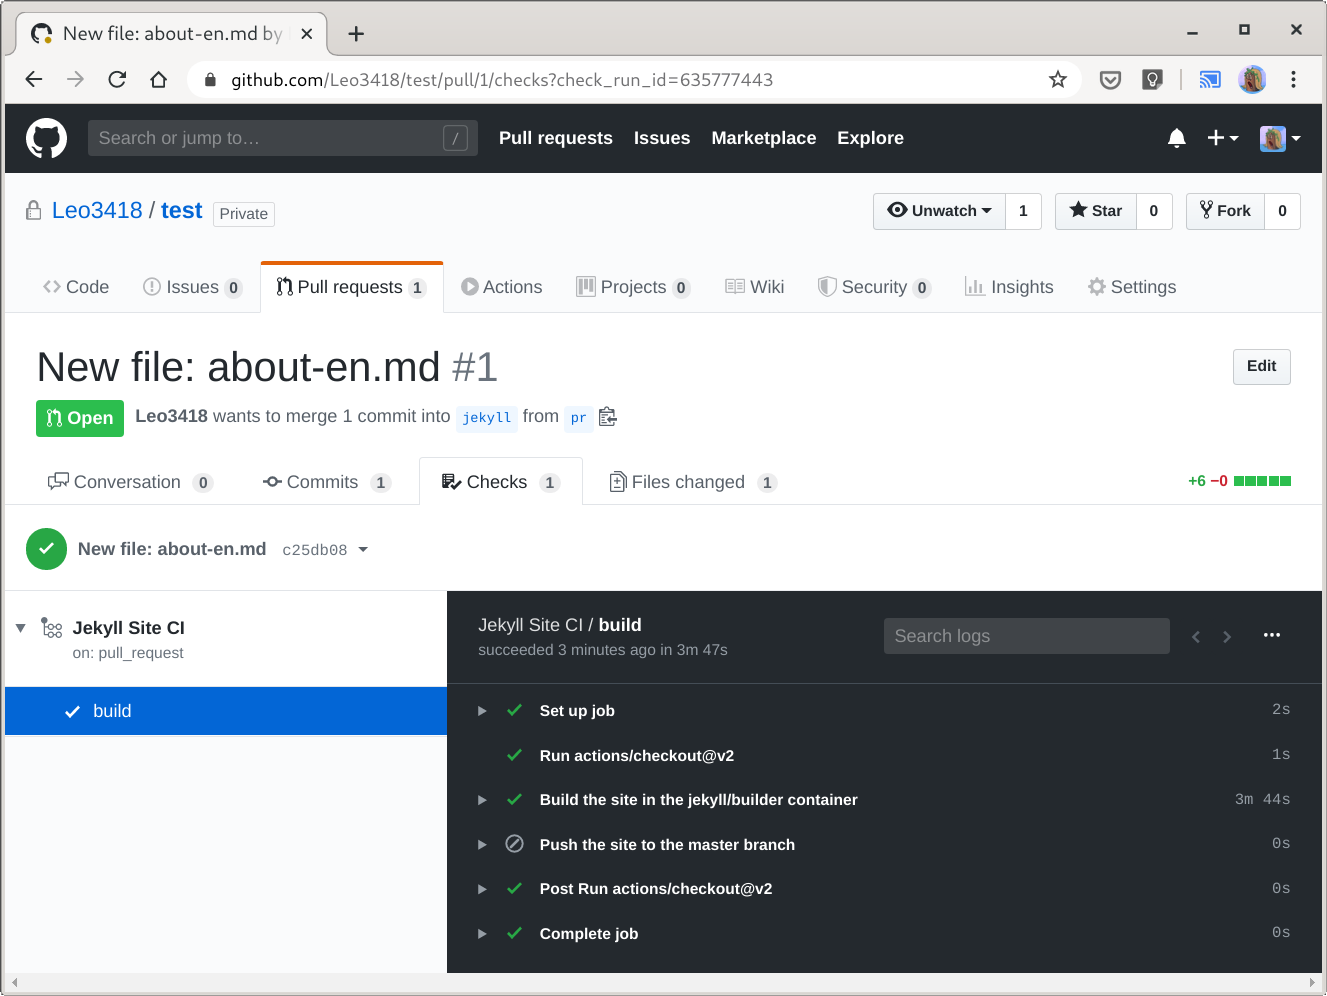
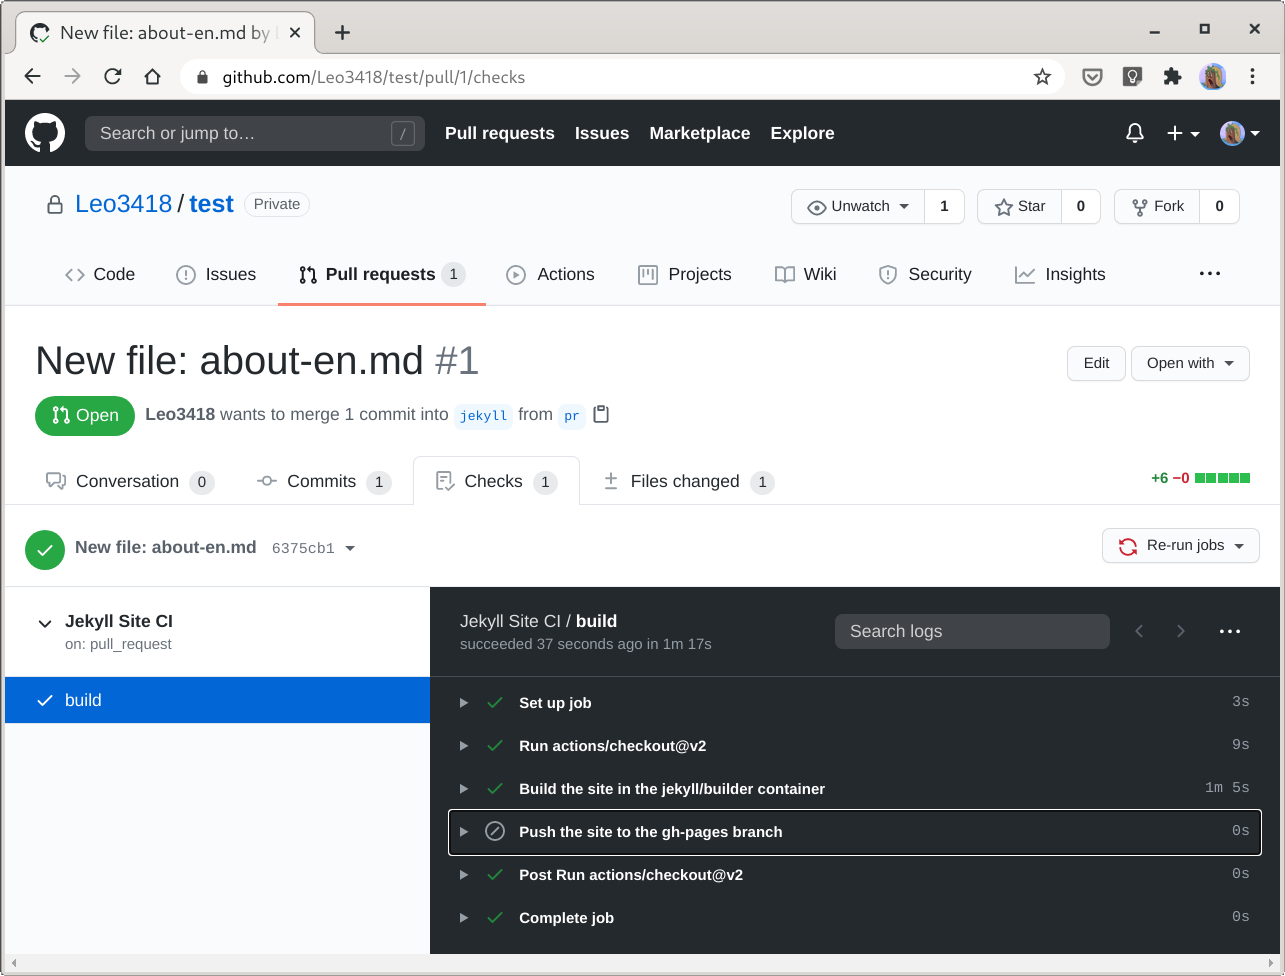
host-on-github-pages.md: Update for new GitHub Pages source option

diff --git a/collections/_multilingual-jekyll-site/en/host-on-github-pages.md b/collections/_multilingual-jekyll-site/en/host-on-github-pages.md
@@ -53,20 +53,19 @@ environments, and procedures.
 ### Create a Workflow
 
 A good starting point of the workflow for building a Jekyll site is
-[here](https://github.com/actions/starter-workflows/blob/master/ci/jekyll.yml).
+[here](https://github.com/actions/starter-workflows/blob/abf7f258d1d84c79ad067c704e069c8cf7d8d2d0/ci/jekyll.yml).
 You may copy the file's contents into your own workflow file and start
 customizing it.
 
 {% raw %}
-```yaml
-site-root$ cat .github/workflows/jekyll.yml
+```yml
 name: Jekyll site CI
 
 on:
   push:
-    branches: [ master ]
+    branches: [ $default-branch ]
   pull_request:
-    branches: [ master ]
+    branches: [ $default-branch ]
 
 jobs:
   build:
@@ -114,7 +113,40 @@ because jobs are isolated, so what is built by the `build` job cannot be
 accessed from other jobs. The step can simply run a set of commands that push
 the static files to GitHub.
 
+### Enter the Default Branch's Name
+
+In the configuration file, `$default-branch` should be replaced by the actual
+name of your Git repository's default branch.
+
+You can use whatever name you prefer for the default branch. For demonstration
+purpose, I would pick `jekyll` here.
+
+```diff
+  on:
+    push:
+-     branches: [ $default-branch ]
++     branches: [ jekyll ]
+    pull_request:
+-     branches: [ $default-branch ]
++     branches: [ jekyll ]
+```
+
 ### Add Step for Site Uploading
+
+If you were not using unsupported Jekyll plugins so that you could push your
+site's static files to GitHub directly and let GitHub Pages build the site, you
+would never see the generated static files of your site. To achieve the same
+effect with the GitHub Actions workflow, we will avoid uploading the static
+files to the default branch of the Git repository for the site, so those files
+will never pop into the working tree that is full of source files.
+
+The most straightforward way of doing this is to dedicate a `gh-pages` branch
+for the static files, and let GitHub Pages use that branch as the publishing
+source. Your site's source files will stay in the default branch, so when
+anyone clones the repository, the Git working tree will consist exclusively of
+the source files, and they can start working on them immediately. As long as
+the `gh-pages` branch is not checked out, the generated static files are
+hidden.
 
 If you are familiar with Docker and its command line interface, you will notice
 that the `docker` command in the workflow above mounts the `_site` directory
@@ -123,16 +155,16 @@ under `github.workspace` (which is simply your Git repository's root) to the
 which means the site's static files will be accessible from {% raw %}`${{
 github.workspace }}/_site`{% endraw %} after the build. So, the following
 commands should push what's under `_site` after the build to your repository's
-`master` branch:
+`gh-pages` branch:
 
 {% raw %}
 ```sh
 cd ${{ github.workspace }}/_site
-git init
+git init -b gh-pages
 git remote add origin https://github.com/${{ github.repository }}.git
 git add .
 git commit -m "Deploy site built from commit ${{ github.sha }}"
-git push -u origin master
+git push -u origin gh-pages
 ```
 {% endraw %}
 
@@ -162,15 +194,15 @@ change some existing ones:
 ```diff
 + sudo chown $( whoami ):$( whoami ) ${{ github.workspace }}/_site
   cd ${{ github.workspace }}/_site
-  git init
+  git init -b gh-pages
 + git config user.name ${{ github.actor }}
 + git config user.email ${{ github.actor }}@users.noreply.github.com
 - git remote add origin https://github.com/${{ github.repository }}.git
 + git remote add origin https://x-access-token:${{ github.token }}@github.com/${{ github.repository }}.git
   git add .
   git commit -m "Deploy site built from commit ${{ github.sha }}"
-- git push -u origin master
-+ git push -f -u origin master
+- git push -u origin gh-pages
++ git push -f -u origin gh-pages
 ```
 {% endraw %}
 
@@ -192,58 +224,19 @@ add them to the workflow file:
         docker run \
         -v ${{ github.workspace }}:/srv/jekyll -v ${{ github.workspace }}/_site:/srv/jekyll/_site \
         jekyll/builder:latest /bin/bash -c "chmod 777 /srv/jekyll && jekyll build --future"
-    - name: Push the site to the master branch
+    - name: Push the site to the gh-pages branch
       run: |
         sudo chown $( whoami ):$( whoami ) ${{ github.workspace }}/_site
         cd ${{ github.workspace }}/_site
-        git init
+        git init -b gh-pages
         git config user.name ${{ github.actor }}
         git config user.email ${{ github.actor }}@users.noreply.github.com
         git remote add origin https://x-access-token:${{ github.token }}@github.com/${{ github.repository }}.git
         git add .
         git commit -m "Deploy site built from commit ${{ github.sha }}"
-        git push -f -u origin master
+        git push -f -u origin gh-pages
 ```
 {% endraw %}
-
-## The Conflicting `master` Branch
-
-We are planning to store both the source files and static files in a single
-GitHub repository. Ideally, the source files are placed in the `master` branch,
-and the generated static files go under another branch like `gh-pages`.
-However, for [user or organization
-sites](https://help.github.com/en/github/working-with-github-pages/about-github-pages#types-of-github-pages-sites)
-on GitHub Pages, the files used to present your site must be put under the
-`master` branch. It's even worse when the workflow we defined above would do a
-force push to the `master` branch, overwriting all existing files in it.
-
-Instead of putting source files in `master` and uploading static files to
-`gh-pages`, we can swap them so that static files will be deployed to `master`,
-and the source files are pushed to another branch, e.g. `jekyll`. Then, you can
-set `jekyll` as the [default
-branch](https://help.github.com/en/github/administering-a-repository/setting-the-default-branch)
-of your repository, so when the repository is cloned, the source files are
-checked out by default and ready to be edited without switching branches.
-GitHub Pages will always publish files under the branch named `master`, even if
-it is not the default branch.
-
-Since we will push source files to another branch, we also need to change the
-triggers for the GitHub Actions workflow:
-
-```diff
-  name: Jekyll site CI
-
-  on:
-    push:
--     branches: [ master ]
-+     branches: [ jekyll ]
-    pull_request:
--     branches: [ master ]
-+     branches: [ jekyll ]
-
-  jobs:
-    build:
-```
 
 ## Prevent Unauthorized Modifications to Your Site
 
@@ -261,26 +254,39 @@ immediately online; the worst case would be someone posting malicious contents
 on your site.
 
 To prevent such modifications, we can add a condition to the step that pushes
-the generated site to `master` so that it is only performed if the workflow run
-is triggered by a push to the `jekyll` branch.
+the generated site to `gh-pages` so that it is only performed if the workflow
+run is triggered by a push to the `jekyll` branch.
 
 {% raw %}
 ```diff
-      - name: Push the site to the master branch
+      - name: Push the site to the gh-pages branch
 +       if: ${{ github.event_name == 'push' }}
         run: |
           sudo chown $( whoami ):$( whoami ) ${{ github.workspace }}/_site
           cd ${{ github.workspace }}/_site
-          git init
+          git init -b gh-pages
 ```
 {% endraw %}
 
 For other kinds of events, including pull requests, the step will be skipped,
-so the published site in the `master` branch is intact.
+so the published site in the `gh-pages` branch is intact.
 
-![The "push to master" step is skipped]({{ img_path }}/push-not-performed.png)
+![The "push to gh-pages" step is
+skipped]({{ img_path }}/push-not-performed.png)
 
 At this point, you should have produced a workflow file similar to
-[mine](https://github.com/Leo3418/leo3418.github.io/blob/9e7a9bfd1f0a6c6a82d130e5d83c2b54a7359f1e/.github/workflows/jekyll.yml).
+[mine](https://github.com/Leo3418/leo3418.github.io/blob/702a9f5325504606b405ac02086cc2b7940e84d4/.github/workflows/jekyll.yml).
 Now you have a GitHub Actions workflow that allows you to host a Jekyll site
 using unsupported plugins on GitHub Pages with automated builds.
+
+## Set the Publishing Source of GitHub Pages
+
+The last step is to tell GitHub Pages to use the files in the `gh-pages` branch
+for your site. First, commit your changes and push them to GitHub, and let the
+workflow run so it can push the generated files to `gh-pages`.
+
+Next, go to the settings page of your repository on GitHub website, and scroll
+down to the section called "GitHub Pages". From there, select the `gh-pages`
+branch as the source, and then click "Save".
+
+![Choosing GitHub Pages source]({{ img_path }}/gh-pages-source.png)
